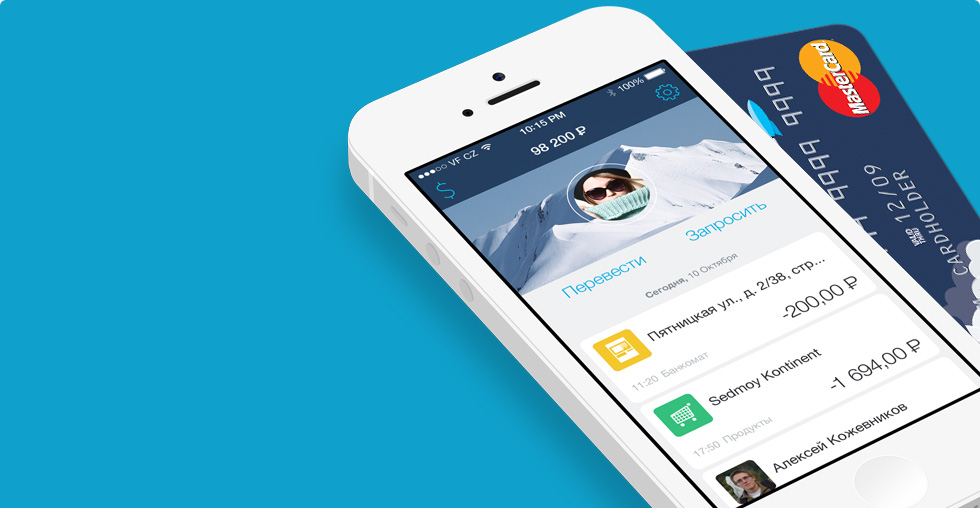
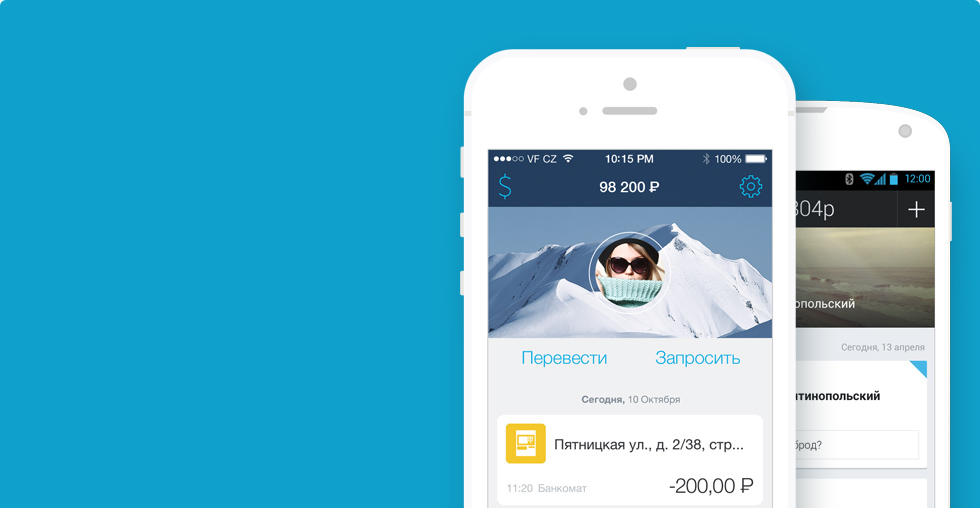
landing page updated

diff --git a/app/views/Application/index.html b/app/views/Application/index.html
@@ -35,39 +35,32 @@
         </div>
 
         <div class="features">
-            <h1>5 причин начать пользоваться Instabank</h1>
+            <h1><a href="https://itunes.apple.com/ru/app/instabank/id595302633">Скачайте приложение</a> и получите
+                бесплатную виртуальную карту Instabank MasterCard</h1>
+            <h2>Где бы вы ни находились, получите доступ к основным возможностям Instabank</h2>
 
             <div class="clearfix wrapper">
                 <div class="left item">
                     <img src="@{'/public/images/ic1.png'}" alt="">
-
                     <p>Красивый и понятный мобильный банк</p>
                 </div>
                 <div class="left item">
                     <img src="@{'/public/images/ic2.png'}" alt="">
-
                     <p>Переводы и запросы по Facebook</p>
                 </div>
                 <div class="left item">
                     <img src="@{'/public/images/ic3.png'}" alt="">
-
                     <p>Все покупки и переводы в деталях</p>
                 </div>
                 <div class="left item">
                     <img src="@{'/public/images/ic4.png'}" alt="">
-
                     <p>Пластиковая карта MasterCard с высоким доходом</p>
                 </div>
                 <div class="left item">
                     <img src="@{'/public/images/ic5.png'}" alt="">
-
                     <p>Начать можно прямо сейчас!</p>
                 </div>
             </div>
-            <h1><a href="https://itunes.apple.com/ru/app/instabank/id595302633">Скачайте приложение</a> и получите
-                бесплатную виртуальную карту Instabank MasterCard</h1>
-
-            <h2>Где бы вы ни находились, получите доступ к основным возможностям Instabank</h2>
         </div>
 
         <!-- Reports -->
@@ -85,7 +78,7 @@
                 <p class="descr">&{'reports.bullet_two.description'}</p>
             </div>
             <div class="feature">
-                <p class="title"><span class="soon">&{'reports.soon'}</span>&{'reports.bullet_three.title'}</p>
+                <p class="title">&{'reports.bullet_three.title'}</p>
 
                 <p class="descr">&{'reports.bullet_three.description'}</p>
             </div>
@@ -107,10 +100,11 @@
                 <p class="descr">&{'social.bullet_two.description'}</p>
             </div>
             <div class="feature">
-                <p class="title"><span class="soon">&{'reports.soon'}</span>&{'social.bullet_three.title'}</p>
+                <p class="title">&{'social.bullet_three.title'}</p>
 
                 <p class="descr">&{'social.bullet_three.description'}</p>
             </div>
+            <div class="phone"></div>
         </div>
 
         <!-- Security -->

diff --git a/public/css/styles.css b/public/css/styles.css
@@ -355,6 +355,7 @@ html, body {
 .features {
     text-align: center;
     width: 980px;
+    padding-bottom: 80px;
 }
 
 .features .wrapper {
@@ -385,7 +386,7 @@ html, body {
     color: #000;
     line-height: 1;
     padding-top: 24px;
-    padding-bottom: 80px;
+    padding-bottom: 40px;
     font-size: 20px;
     font-family: 'PFDinDisplayProThin', Arial;
 }
@@ -443,6 +444,8 @@ html, body {
 
 .card-block ul {
     margin-top: 20px;
+    list-style-type: disc;
+    padding-left: 1em;
 }
 
 .card-block li {
@@ -461,17 +464,17 @@ html, body {
 }
 
 .report {
-	height: 861px;
+	height: 740px;
 	position: relative;
 	color: #232323;
-	padding: 71px 0 0;
+	padding: 0;
 }
 .report .phone {
-	width: 305px;
-	height: 808px;
+	width: 308px;
+	height: 647px;
 	position: absolute;
-	background: transparent url(images/bg/report.png) no-repeat 0 0;
-	left: 76px;
+	background: transparent url(images/screen_activity.png) no-repeat 0 0;
+	left: 70px;
 	top: -27px;
 }
 .report .callout {
@@ -480,8 +483,7 @@ html, body {
     width: 425px;
     line-height: 1.2;
 	margin: 0 0 56px 430px;
-	padding: 108px 0 0 7px;
-	background: transparent url(images/bg/report_note.jpg) no-repeat 0 0;
+	padding: 0px 0 0 7px;
 }
 .report .callout span {
 	font-family: 'PFDinDisplayProMedium', Arial;
@@ -505,9 +507,9 @@ html, body {
 }
 .social {
 	height: 695px;
-	background: transparent url(images/bg/social.jpg) no-repeat 0 0;
-	color: #fff;
-	padding: 44px 0 0 72px;
+    color: #232323;
+    position: relative;
+    padding: 44px 0 0 72px;
 }
 .social .callout {
     font-family: 'PFDinDisplayProThin',Arial;
@@ -520,6 +522,7 @@ html, body {
 }
 .social .feature {
 	margin: 0 0 39px;
+    width: 450px;
 }
 .social .feature .title {
 	font-size: 20px;
@@ -531,33 +534,43 @@ html, body {
 	font-size: 16px;
 	font-family: 'PFDinDisplayProRegular', Arial;
 }
+
+.social .phone {
+    width: 308px;
+    height: 647px;
+    position: absolute;
+    background: transparent url(images/screen_newtransfer.png) no-repeat 0 0;
+    right: 70px;
+    top: -27px;
+}
+
 .security {
 	position: relative;
-	height: 709px;
-	padding: 87px 0 0 67px;
+	height: 540px;
+	padding: 0px 0 0 67px;
 }
 .security .phone {
-	width: 354px;
-	height: 811px;
+	width: 341px;
+	height: 365px;
 	position: absolute;
-	background: transparent url(images/bg/security.png) no-repeat 0 0;
-	right: 22px;
-	top: -29px;
+	background: transparent url(images/cards.png) no-repeat 0 0;
+	left: 70px;
+	top: 10px;
 }
 .security .callout {
-    background: url("images/bg/security_lock.jpg") no-repeat scroll 0 0 transparent;
     font-family: 'PFDinDisplayProThin',Arial;
     font-size: 40px;
     line-height: 1.2;
-    margin: 0 0 38px;
-    padding: 12px 0 10px 101px;
+    margin: 0 0 36px 438px;
+    padding: 12px 0 10px 0px;
     min-height: 117px;
 }
 .security .callout span {
 	font-family: 'PFDinDisplayProMedium', Arial;
 }
 .security .feature {
-	margin: 0 0 39px 8px;
+    margin: 0 0 36px 438px;
+    width: 400px;
 }
 .security .feature .title {
 	font-size: 20px;
